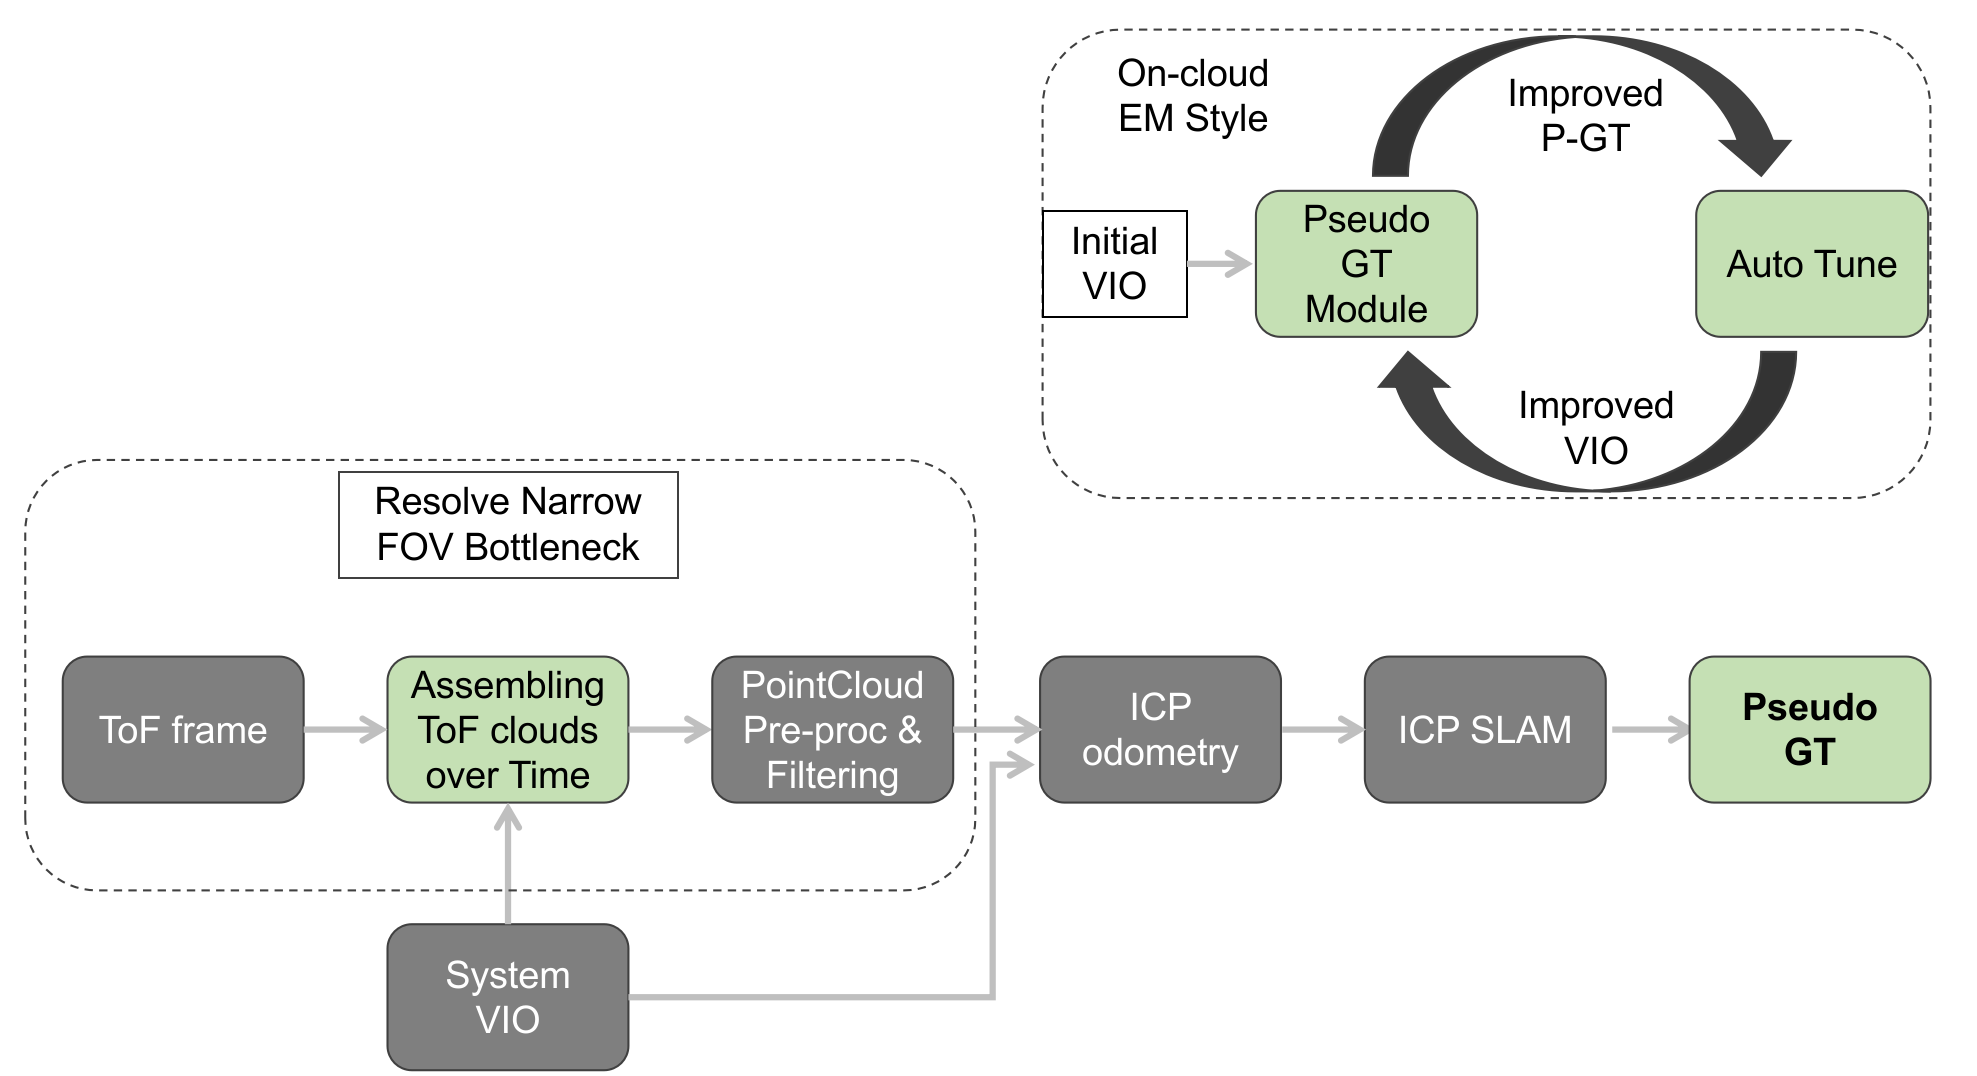
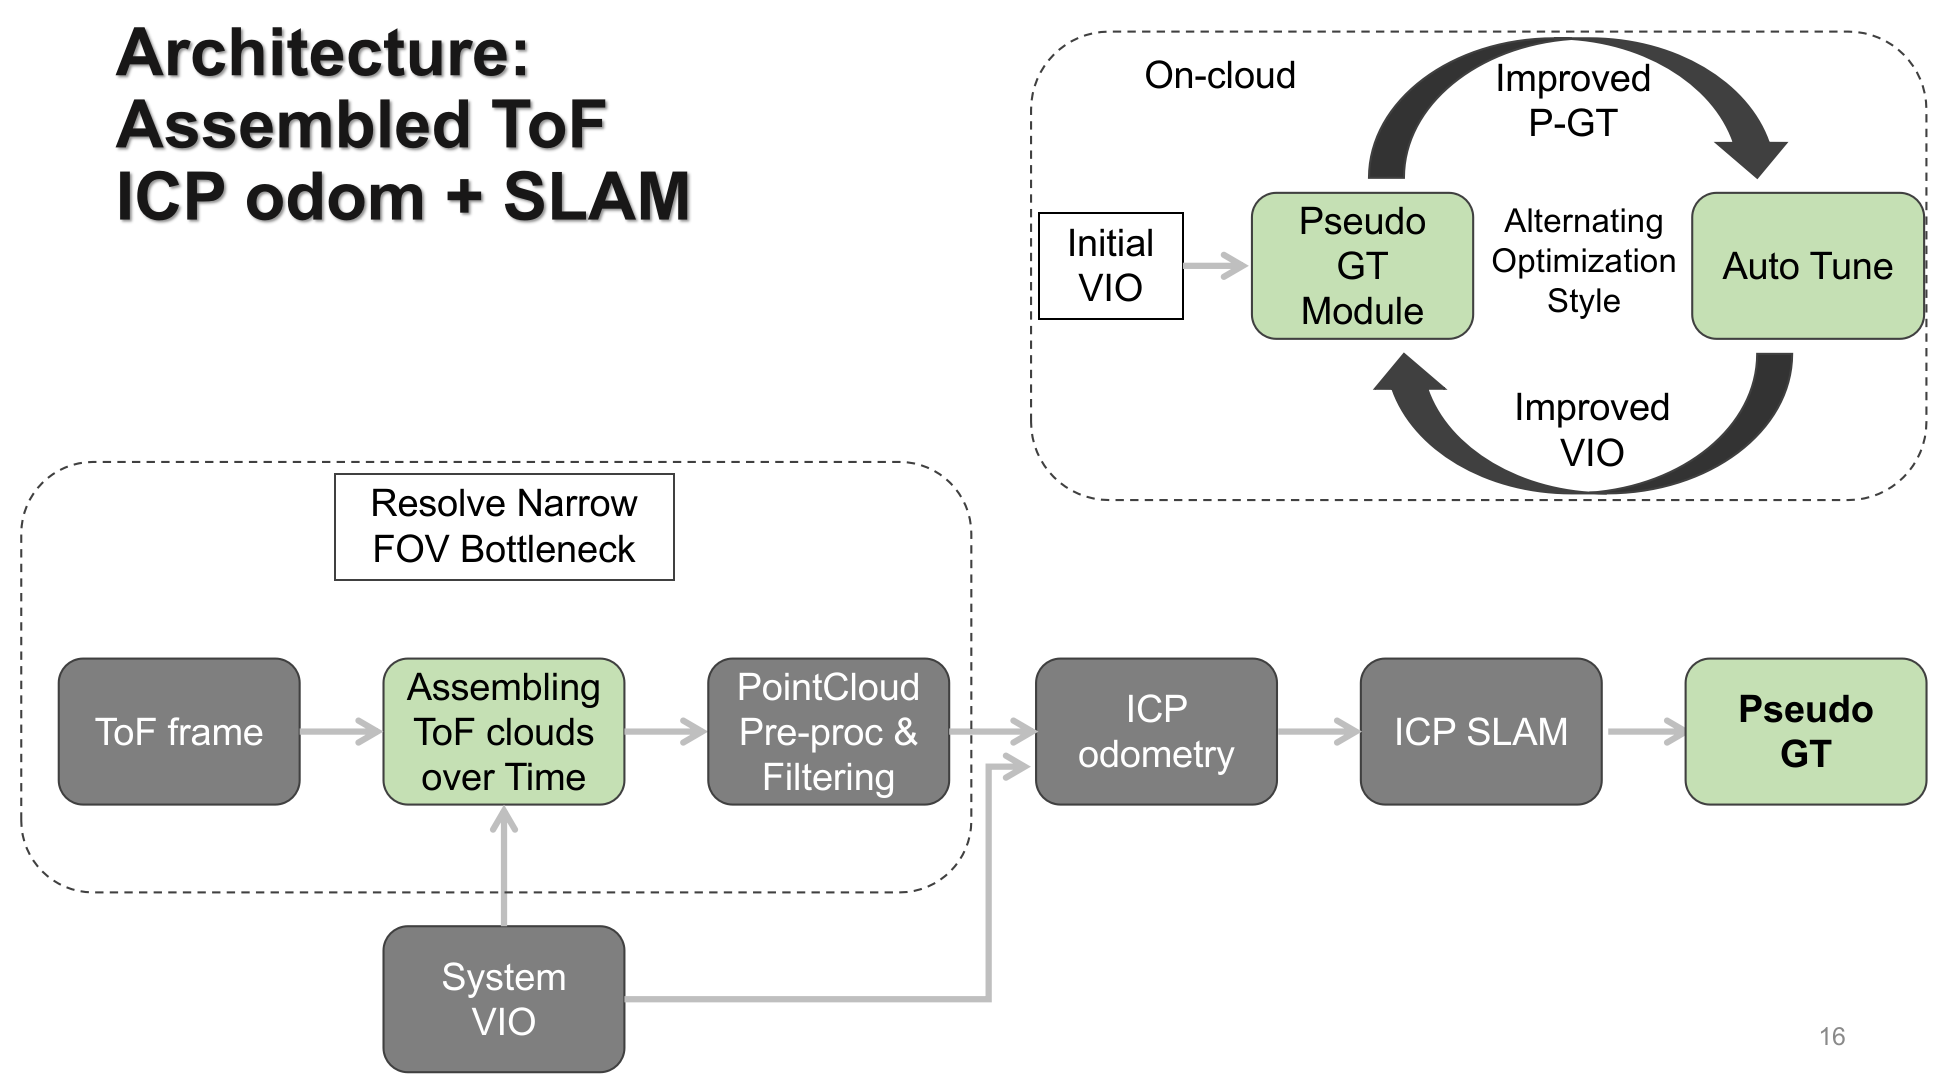
Minor updates

diff --git a/index.html b/index.html
@@ -183,7 +183,7 @@
             
             <li>
               <i class="fa-li fa fa-check"></i>
-              Semantic Segmentation, Morphological transforms, Image filtering, 3D-Reconstruction, Edge detection, Histogram Equilization, Image Sharpening, Image Classification
+              Single View Meterology, Semantic Segmentation, Morphological transforms, Image filtering, 3D-Reconstruction, Edge detection, Histogram Equilization, Image Sharpening, Image Classification
             </li>
             
             <li>
